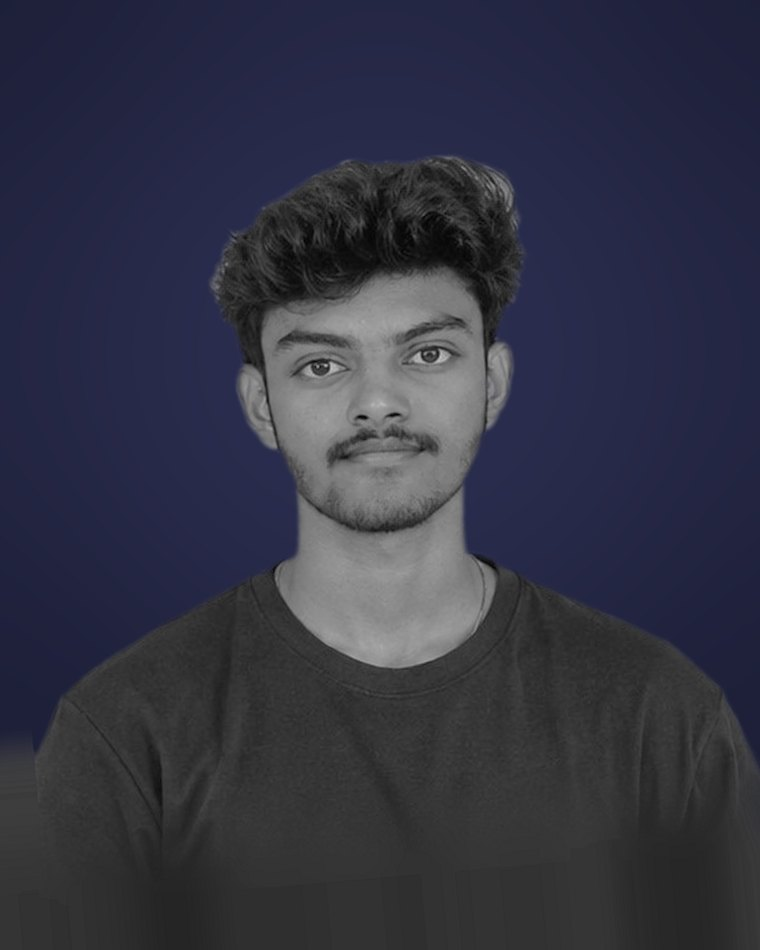
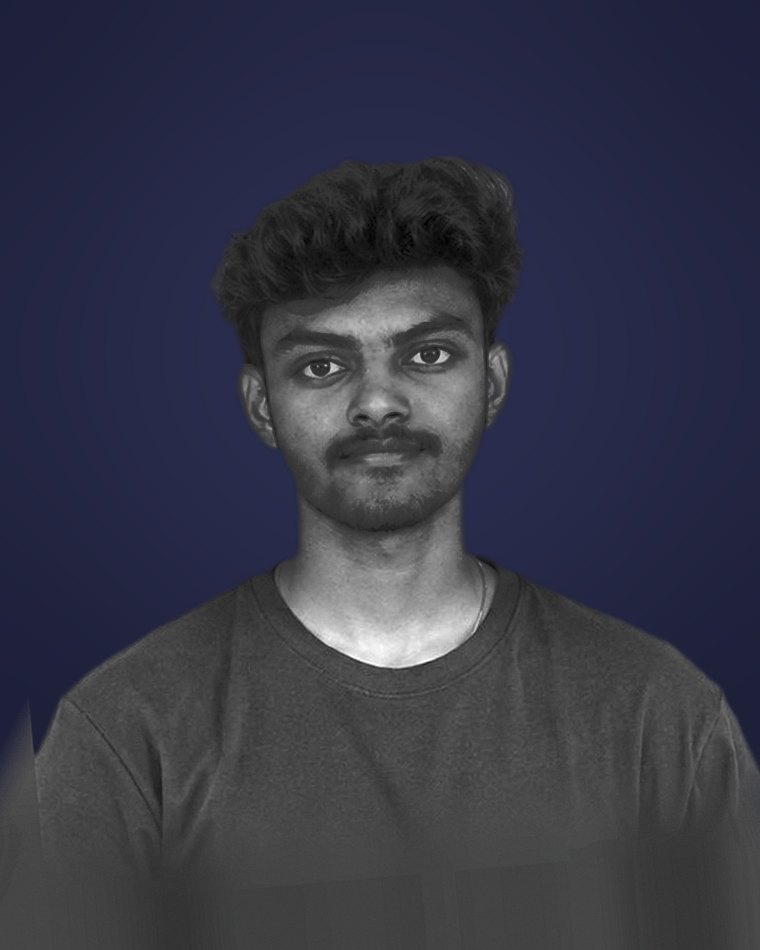
Match Shyan's card to the other three: tones, shadow depth and grain measured from their cards

diff --git a/scripts/team_photo.py b/scripts/team_photo.py
@@ -26,10 +26,6 @@ OUT = ROOT / "public" / "media"
 DEEP = (29, 31, 56)
 LIGHT = (58, 62, 104)
 
-# Shyan's tones, as (in, out) points: the darkest tones (hair, shirt) are
-# lifted and the mid-tones (skin) pulled down a little.
-SHYAN_CURVE = [(0, 6), (20, 36), (45, 62), (90, 98), (130, 128), (170, 156), (210, 200), (255, 254)]
-
 # Measured on the photos after they are shrunk to fit 2400px: the eye line,
 # the chin and the face centre. Faces are scaled so eye-to-chin matches,
 # times scale where a face still reads smaller than the others.
@@ -39,9 +35,11 @@ PEOPLE = {
     "ajay": dict(file="ajay.heic", eye=1030, chin=1165, cx=1092, scale=1.0),
     # A small, already black and white photo: the left and bottom edges are
     # extended (pad = left, bottom) so the shirt fills the card. cx includes it.
-    # raw: no grading, the photo is used as it is. tilt: degrees to turn the
+    # raw: not graded like the others. match: instead, measured against the
+    # other three cards and matched to them (see match_to_group).
+    # raw on its own: the photo is used as it is. tilt: degrees to turn the
     # person, counter-clockwise, to match the others' relaxed poses.
-    "shyan": dict(file="shyan-4.jpg", eye=165, chin=278, cx=310, scale=1.0, pad=(60, 260), raw=True, tilt=5, curve=SHYAN_CURVE),
+    "shyan": dict(file="shyan-4.jpg", eye=165, chin=278, cx=310, scale=1.0, pad=(60, 260), raw=True, tilt=5, match=True),
 }
 # Everyone is graded to match the face in this photo: its brightness,
 # contrast and soft, deep-black look. It is only measured, never put on a card.
@@ -70,14 +68,30 @@ def cut_out(p, session):
 def pad_edges(im, left, bottom):
     """Extend the left and bottom edges by repeating the outermost pixels."""
     w, h = im.size
+    # Where the cut-out fades out, its colour is still the old (light) wall;
+    # take it towards the dark shirt first, so none of it spreads.
+    alpha = im.getchannel("A")
+    flat = Image.new("RGB", im.size, (24, 24, 24))
+    flat.paste(im.convert("RGB"), (0, 0), alpha)
+    im = flat.convert("RGBA")
+    im.putalpha(alpha)
     out = Image.new("RGBA", (w + left, h + bottom), (0, 0, 0, 0))
     out.paste(im, (left, 0))
     if left:
         # The edge column, averaged and smoothed top to bottom so the
         # extension is smooth cloth with no streaks.
-        col = im.crop((0, 0, 6, h)).resize((1, h), Image.BOX)
+        col = im.crop((8, 0, 20, h)).resize((1, h), Image.BOX)  # a little inside the edge
         col = col.resize((1, max(2, h // 24)), Image.BOX).resize((left, h), Image.BICUBIC)
-        out.paste(col, (0, 0))
+        # Keep following the slope of the shoulder outwards: each column
+        # of the extension starts a little lower than the one inside it.
+        import numpy as np
+
+        arr = np.array(col)
+        a = arr[:, :, 3].copy()
+        for i in range(left):
+            drop = int(round((left - i) * 1.6))
+            arr[:, i, 3] = np.concatenate([np.zeros(drop, a.dtype), a[: h - drop, i]])
+        out.paste(Image.fromarray(arr, "RGBA"), (0, 0))
     if bottom:
         out.paste(out.crop((0, h - 1, w + left, h)).resize((w + left, bottom), Image.NEAREST), (0, h))
         # Soften the join so no band shows where the extension starts.
@@ -133,14 +147,80 @@ def stats(grey, alpha):
 S_CURVE = [round(255 * (0.5 + 0.5 * math.tanh(1.8 * (g / 255 - 0.5)) / math.tanh(0.9))) for g in range(256)]
 
 
-def apply_curve(rgba, points):
-    """Remap the brightness with a smooth curve through the given points."""
+def match_to_group(rgba, refs):
+    """Make a black and white cut-out look like it was shot with the others.
+
+    Measured on the reference cut-outs (same card layout, so the head and the
+    body sit in the same place on every card), and applied in three steps:
+    local contrast (how deep the shadows in the face and clothes are), tones
+    (head and body matched separately, so a dark shirt is compared with
+    shirts and a face with faces) and fine grain.
+    """
     import numpy as np
 
-    xs, ys = zip(*points)
-    lut = [int(round(v)) for v in np.interp(range(256), xs, ys)]
-    r, g, b, a = rgba.split()
-    return Image.merge("RGBA", (r.point(lut), g.point(lut), b.point(lut), a))
+    def arrays(im):
+        g = np.asarray(ImageOps.grayscale(im.convert("RGB")), dtype=np.float32)
+        a = np.asarray(im.getchannel("A"), dtype=np.float32)
+        return g, a
+
+    def blur(g, r):
+        return np.asarray(Image.fromarray(g.clip(0, 255).astype(np.uint8)).filter(ImageFilter.GaussianBlur(r)), dtype=np.float32)
+
+    h, w = CARD[1], CARD[0]
+    split = EYE_Y + EYE_TO_CHIN + 80  # from the collar down: clothes
+    rows = np.arange(h)[:, None] * np.ones((1, w))
+    head_zone = rows < split
+    g, a = arrays(rgba)
+    ref = [arrays(r) for r in refs]
+    person = a > 200
+
+    # 1. Local contrast: the strength of shadow and texture at two sizes.
+    for radius in (8, 2):
+        def detail(gg, aa, zone):
+            d = gg - blur(gg, radius)
+            m = (aa > 200) & zone
+            return d, float(d[m].std())
+        # Not the very bottom, where the shirt was extended to fill the card.
+        for zone, top in ((head_zone, 2.2), (~head_zone & (rows < CARD[1] - 110), 1.15)):
+            # Clothes get only a little: a plain dark shirt has almost no
+            # texture, and boosting it only brings out noise.
+            d, mine = detail(g, a, zone)
+            theirs = float(np.mean([detail(rg, ra, zone)[1] for rg, ra in ref]))
+            k = np.clip(theirs / max(mine, 1e-3), 0.7, top)
+            g = np.where(zone, g + d * (k - 1), g)
+
+    # 2. Tones: histogram matching, head and body separately, blended at the neck.
+    def lut(zone):
+        mine = np.sort(g[person & zone].ravel())
+        theirs = np.sort(np.concatenate([rg[(ra > 200) & zone].ravel() for rg, ra in ref]))
+        q = np.linspace(0, 1, 257)
+        return np.quantile(mine, q), np.quantile(theirs, q)
+
+    src_h, dst_h = lut(head_zone)
+    head = np.interp(g, src_h, dst_h)
+    # Clothes: match their average brightness, and their spread only part of
+    # the way, so a plain shirt is lifted to their level without blotches.
+    bm = person & ~head_zone
+    mine_m, mine_s = float(g[bm].mean()), float(g[bm].std())
+    their_vals = np.concatenate([rg[(ra > 200) & ~head_zone].ravel() for rg, ra in ref])
+    k = min(float(their_vals.std()) / max(mine_s, 1e-3), 1.25)
+    body = float(their_vals.mean()) + (g - mine_m) * k
+    t = np.clip((rows - (split - 40)) / 80, 0, 1)
+    g = head * (1 - t) + body * t
+
+    # 3. Grain: add only what is missing to reach their fine noise.
+    def grain(gg, aa):
+        m = (aa > 200) & head_zone
+        return float((gg - blur(gg, 1))[m].std())
+
+    mine = grain(g, a)
+    theirs = float(np.mean([grain(rg, ra) for rg, ra in ref]))
+    extra = np.sqrt(max(theirs**2 - mine**2, 0))
+    if extra > 0:
+        g = g + np.random.default_rng(7).normal(0, extra, g.shape)
+
+    out = Image.fromarray(g.clip(0, 255).astype(np.uint8))
+    return Image.merge("RGBA", (out, out, out, rgba.getchannel("A")))
 
 
 def to_grey(rgba, target=None):
@@ -171,13 +251,20 @@ def main(only=None):
     session = new_session("isnet-general-use")
     look = place(cut_out(LOOK, session), LOOK)
     target = stats(ImageOps.grayscale(look.convert("RGB")), look.getchannel("A"))
+    greys = {}
     for name, p in PEOPLE.items():
+        if not p.get("raw"):
+            greys[name] = to_grey(place(cut_out(p, session), p), target)
+    for name, p in PEOPLE.items():
+        if p.get("raw"):
+            grey = to_grey(place(cut_out(p, session), p))
+            if p.get("match"):
+                grey = match_to_group(grey, list(greys.values()))
+            greys[name] = grey
+    for name, grey in greys.items():
         if only and name not in only:
             continue
         card = backdrop()
-        grey = to_grey(place(cut_out(p, session), p), None if p.get("raw") else target)
-        if p.get("curve"):
-            grey = apply_curve(grey, p["curve"])
         card.alpha_composite(grey)
         card.convert("RGB").save(OUT / f"team-card-{name}.jpg", quality=86, optimize=True, progressive=True)
         print("card", name)
